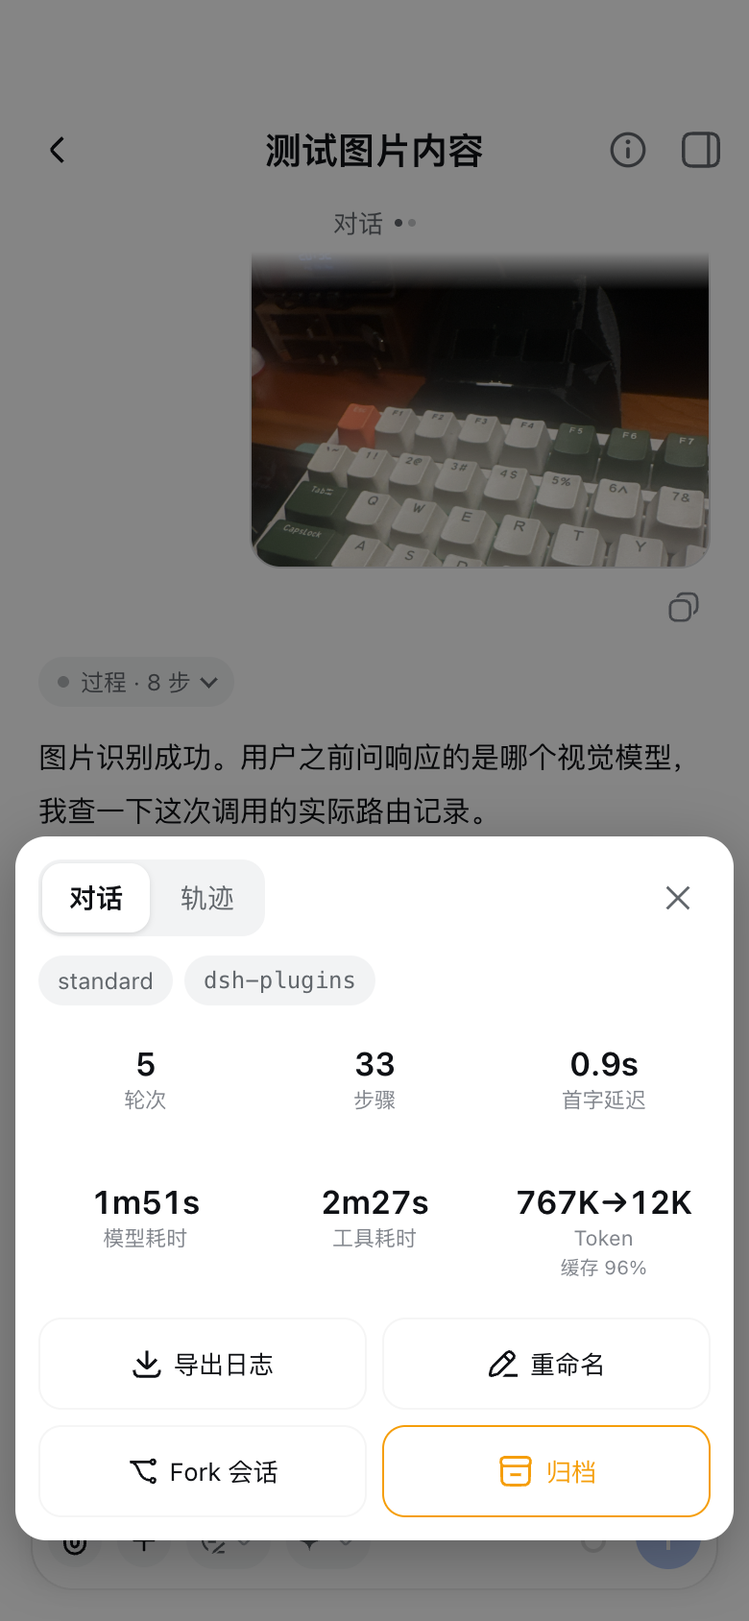
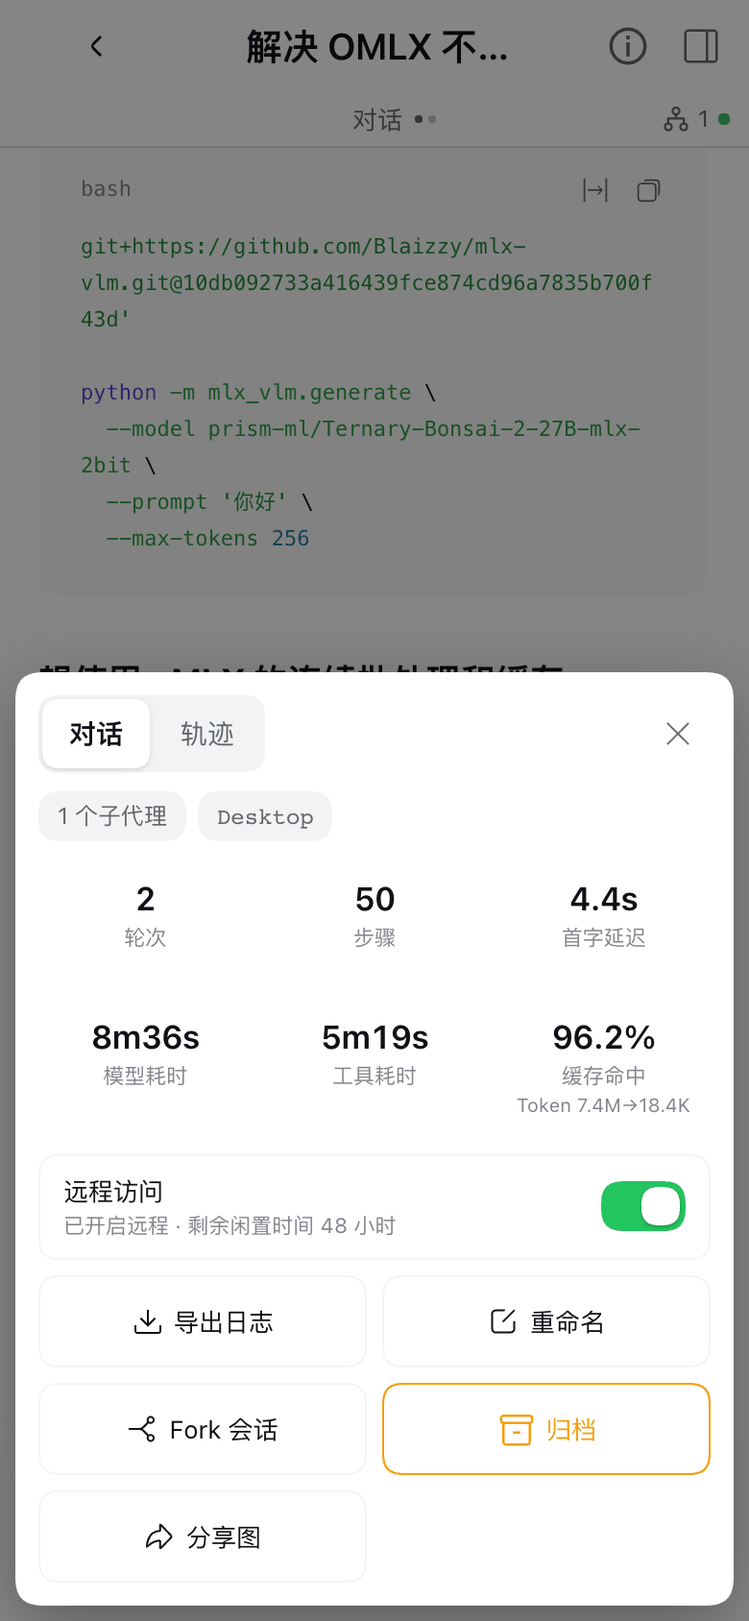
docs: remote connection overview and settings walkthrough with screenshots; refresh phone screenshots; fix stale wording; keep dev docs and screenshots out of the npm package

diff --git a/README.md b/README.md
@@ -35,6 +35,35 @@ A paired **desktop client** sees exactly the sessions the host has turned remote
 
 ---
 
+## Remote connection
+
+**What it is for**: one always-on computer runs the sessions (the host), and the DSH desktop app on another computer (the client) watches and carries on with them remotely — history, live progress, messages, approvals, the terminal all work, and everything executes on the host. Phones and tablets take a different road: a browser reaching the host through the gateway (a web app device), see [Setting up public access](#setting-up-public-access-host).
+
+**How it works**, in four steps:
+
+1. **Pair**: on the host's settings page, generate a 桌面应用端 (desktop app device) pairing code; on the client's settings page, enter the server address and the code. Step by step in the [settings page walkthrough](#settings-page-walkthrough) below.
+2. **Turn remote access on**: remote access is per session. On the host, pick 开启远程 (turn remote on) from the session's "…" menu (or use the globe icon in the title row, or the list in the settings page — see [Session sharing](#session-sharing)).
+
+   ![The host turning remote access on from a session's "…" menu](docs/images/host-share-menu.png)
+
+3. **Use it on the client**: after the local workspaces, the sidebar shows a "host device name · workspace name" group; sessions in it open like local ones, and the globe icon in the title row shows the connection state (online / offline / version differs). A host workspace with no remote-enabled session never shows up.
+
+   ![The client sidebar with the "书房 · Desktop" group and the remote status icon in the title row](docs/images/client-sidebar.png)
+
+4. **Closing and coming back**: when the host closes remote access, the session idle-sleeps (48 hours without activity by default), or you close it from the client, an open session page shows a "remote closed" banner with input disabled, and the session hides from the list once you switch away; turning remote access back on brings it back. During a disconnect the page holds still and resumes by itself once the link is back.
+
+   ![The "remote closed" banner above the composer after remote access was closed](docs/images/client-remote-closed.png)
+
+**Toggle it from your phone too**: when a phone (web app device) opens a session on the host, the session info card has a 远程访问 (remote access) row showing whether it is on and the idle time left; the switch turns it on or off.
+
+<p align="center"><img src="docs/images/mobile-info-remote.png" alt="The remote access switch in the phone's session info card" width="320"></p>
+
+What it can and cannot do: see [Features](#features) and [Known limitations](#known-limitations). A paired desktop client is treated as a trusted device — the trust boundary is in [Security model](#security-model).
+
+> In these screenshots the red frames mark what this plugin adds to the DSH interface; session titles are demo names and conversation content is blurred. The UI is shown in Chinese.
+
+---
+
 ## Install
 
 ```sh
@@ -68,7 +97,7 @@ Copy [`cordis.patch.yml.example`](cordis.patch.yml.example) into your profile's 
 
 </details>
 
-To uninstall: `dsh plugin remove dsh-zen-remote` (or delete the line from the profile's `dependencies` / `bundles`) and restart. To also wipe pairing and share state, delete `~/.dsh/lan-gate-state.json`, `~/.dsh/lan-gate.config.json` and `~/.dsh/zen-remote-shares.json`.
+To uninstall: `dsh plugin remove dsh-zen-remote` (or delete the line from the profile's `dependencies` / `bundles`) and restart. To also wipe pairing and share state, delete `~/.dsh/lan-gate-state.json`, `~/.dsh/lan-gate.config.json`, `~/.dsh/zen-remote-shares.json` and `~/.dsh/zen-remote-server.json` (the server id — once it is gone, paired clients see a brand-new server).
 
 ---
 
@@ -120,11 +149,12 @@ The server-side settings page can rename devices, change a device's role (`set-r
 
 ## Session sharing
 
-Remote access is per session, with three toggle entries on the host:
+Remote access is per session, with four toggle entries:
 
-1. the session's context-menu item in the sidebar;
+1. 开启远程 / 关闭远程 (remote on / off) in the sidebar session row's "…" menu;
 2. the remote icon in the session title row (click to toggle, with a confirmation; hover shows the remaining idle time; a dot on the icon means a desktop client is watching right now);
-3. the shared-sessions list in the plugin settings page, including a close-all.
+3. the shared-sessions list in the plugin settings page, including a close-all;
+4. the 远程访问 (remote access) switch in the phone's (web app device's) session info card.
 
 **Idle sleep**: a remote-enabled session closes its remote access by itself after **48 hours** (configurable, `idleHours`) with no session activity — turns starting or ending, messages, approvals or question answers, from either the server or a client. Sessions that are mid-turn or waiting on an approval/question are never swept, and merely having a viewer open does not keep one awake. The remaining time is hoverable on the title-row icon and listed in the settings page.
 
@@ -139,6 +169,42 @@ Remote access is per session, with three toggle entries on the host:
 ---
 
 ## Configuration
+
+### Settings page walkthrough
+
+**Where it is**: in DSH, click 插件 (Plugins) in the left bar → click dsh-zen-remote in the plugin list → click dsh-zen-remote once more under 包含的组件 (components); the settings block is below.
+
+**Common controls**: 已覆盖 (overridden) at a field's top right means the value is saved in the plugin settings (overriding the config file or the default); 重置 (reset) falls back to the next layer. Click 保存 (save) at the bottom of the card when done. Fields that need a reload say so, and the plugin reloads itself after saving — no app restart.
+
+**Host**
+
+1. Set 运行角色 (role) to 主服务端 (host) and give it a recognizable 设备名称 (device name), e.g. "书房" (study) — it titles the group in clients' sidebars and shows on the phone. Save.
+
+   ![Host settings: role and device name in the role card](docs/images/host-settings-role.png)
+
+2. 网关与反代 (gateway and reverse proxy): keep the defaults for local use and phone access through a proxy; for public access see [Setting up public access](#setting-up-public-access-host). For clients on the LAN to reach the gateway **directly**, set 监听地址 (listen address) to `0.0.0.0` (it must include loopback — the settings page manages the gateway over loopback).
+3. 配对 (pairing): choose Web 应用端 (phones, browsers) or 桌面应用端 (another DSH desktop app), click 生成配对码 (generate code) and enter it on the other device within 10 minutes. The 设备 (devices) list renames devices, changes their role and revokes them.
+
+   ![Generating a pairing code, and the device list](docs/images/host-pairing.png)
+
+4. 远程共享 (remote sharing): the idle-sleep window and whether new sessions are shared automatically. Below the card, 已开启远程的会话 (remote-enabled sessions) lists what is shared right now, the idle time left and whether a device is watching; close them one by one or all at once.
+
+   ![The remote-enabled sessions list](docs/images/host-settings-shares.png)
+
+5. 推送 (push): push summaries, turn-end pushes and so on, as you like — see [When notifications fire](#when-notifications-fire).
+
+**Client**
+
+1. Set 运行角色 (role) to 子客户端 (client) and save — the plugin reloads and the page switches to the client's settings.
+2. Give this computer a 设备名称 (device name), e.g. "客厅" (living room); it is registered in the host's device list when pairing. Save.
+3. 连接服务端 (connect to server): enter the host's gateway address (on a LAN e.g. `http://192.168.1.10:3088`; public addresses must be `https://`) and a 桌面应用端 pairing code from the host, then click 配对 (pair).
+4. Done when 连接状态 (connection state) reads 已连接到「host name」 (connected to "host name"); the host's groups appear in the sidebar right away. The 诊断 (diagnostics) area lists the request interceptor state and recent remote-call failures — the first place to look when something is off.
+
+   ![Client settings: role, device name, server connection and connection state](docs/images/client-settings.png)
+
+> Addresses and pairing codes in the screenshots are demo values.
+
+### Field reference
 
 Everything is edited in the DSH Plugins page → dsh-zen-remote settings block. Per field the first legal value wins in this order: **environment variable > plugin row settings > `~/.dsh/lan-gate.config.json` > default**. A value that fails its field's check (type, range, enum) makes that layer transparent. Saving a field that needs a gateway/push restart (`role`, `port`, `host`, `targetPort`, `rateLimit`, `trustedProxies`, `vapidSubject`, `lang`, and the push fields) reloads the plugin row automatically — no app restart required; everything else takes effect immediately.
 
@@ -206,14 +272,14 @@ The `push_notify` tool. The model should call it when you explicitly asked to be
 - Two-level page stack — session list home plus a standalone session page, pushed in and out horizontally
 - Plugin entry chips on the home screen, appearing automatically for what you have installed, individually hideable
 - Reworked composer: controls become icons, the permission and model menus become bottom sheets
-- Session info card: six stats plus export log / rename / fork / archive; share-image export as ONE long PNG
+- Session info card: six stats plus export log / rename / fork / archive; share-image export as ONE long PNG; since 2.0 a remote access switch row
 - Turn-process folding, left-edge swipe back, Android back-gesture takeover, phone-local attachment upload
 - A pairing code buys a long-lived device token; identity follows the token, not the IP, revocable at any time
 - Real PWA + real Web Push (VAPID + aes128gcm), firing only for approvals and questions by default
 
 **Host (2.0 additions)**
 
-- Session sharing with three toggle entries, idle sleep, auto-share and subagent/fork following
+- Session sharing with four toggle entries (including the phone info card), idle sleep, auto-share and subagent/fork following
 - Everything above works when DSH runs as the **desktop app**: the gateway forwards to the desktop backend's real port automatically, and approval/question pushes fire for desktop sessions
 
 **Desktop client (2.0 additions)**
@@ -245,7 +311,7 @@ What a paired device is trusted with, stated plainly:
 
 - **A paired desktop client is a trusted device.** The remote session's terminal is a shell running as the **server's user**, without the agent sandbox or approval restrictions. The file-preview interfaces (`workspaceFiles/read` and friends) are **not** contained to the session directory — anything the server process can read is readable. A paired client can create sessions in **any** of the server's workspaces (not limited to remote-enabled ones; the created session is auto-shared).
 - **"Only remote-enabled sessions are visible" constrains session data**: an unshared session's list, history, live progress and approval/question events are refused or filtered by the relay; @-mention candidates list **only shared sessions**; and a `dsh-session:` reference embedded in a message, a queue edit or a slash command refuses the whole call when it names a session without remote access. It is not a sandbox around the machine.
-- **Admin actions stay local**: generating pairing codes, changing roles and revoking devices only work from the settings page on the server machine itself — requests that arrived through the gateway can view status but are refused for every mutation, and desktop clients cannot reach the admin routes at all.
+- **Admin actions stay local**: generating pairing codes, changing roles and revoking devices only work from the settings page on the server machine itself — requests that arrived through the gateway can view status but mutations are refused — the one exception is toggling a session's remote access, which a web app device (a phone) may do, and that is what the phone info card's remote access switch uses; desktop clients cannot reach the admin routes at all.
 
 ---
 

diff --git a/README.zh-CN.md b/README.zh-CN.md
@@ -35,6 +35,35 @@
 
 ---
 
+## 远程连接
+
+**适合什么场景**：一台电脑常开、跑会话（主服务端），另一台电脑的 DSH 桌面端（子客户端）远程查看、接着干活——历史、实时进度、发消息、审批、终端都能用，所有执行都发生在主服务端。手机、平板走的是另一条路：浏览器经网关访问主服务端（Web 应用端），见[配置公网访问](#配置公网访问主服务端)。
+
+**怎么用**，四步：
+
+1. **配对**：主服务端设置页生成「桌面应用端」配对码，子客户端设置页填服务端地址和配对码。逐步说明见下面的[设置页配置引导](#设置页配置引导)。
+2. **开启远程**：远程按会话逐个开。主服务端在会话的「…」菜单里点「开启远程」（也可以用标题行的地球图标、设置页的共享列表，见[会话共享](#会话共享)）。
+
+   ![主服务端在会话的「…」菜单里开启远程](docs/images/host-share-menu.png)
+
+3. **在子客户端使用**：侧边栏本地工作区后面出现「服务端设备名称 · 工作区名」分组，点开就像本地会话一样用；标题行的地球图标显示连接状态（在线 / 离线 / 版本有差异）。服务端上没有开启远程会话的工作区不会出现。
+
+   ![子客户端侧边栏里的「书房 · Desktop」分组，标题行是远程连接状态图标](docs/images/client-sidebar.png)
+
+4. **关闭与恢复**：服务端关闭远程、会话闲置休眠（默认 48 小时无动静）、或在子客户端自己关闭时，正打开的会话页会显示「远程已关闭」横幅并禁用输入，切到别的会话后它从列表里隐藏；重新开启远程后自动回来。断线期间页面保持原样，连上后自动续上。
+
+   ![远程被关闭后，会话页输入框上方的「远程已关闭」横幅](docs/images/client-remote-closed.png)
+
+**手机上也能开关**：用手机（Web 应用端）访问主服务端时，会话页的信息卡片里有一行「远程访问」，显示是否已开启、剩余闲置时间，点开关即可开启或关闭。
+
+<p align="center"><img src="docs/images/mobile-info-remote.png" alt="手机会话信息卡片里的「远程访问」开关" width="320"></p>
+
+能做什么、不能做什么，见[功能](#功能)和[已知限制](#已知限制)；已配对的桌面应用端被视为可信设备，信任边界见[安全模型](#安全模型)。
+
+> 以上截图中，红框圈出的是本插件加入 DSH 界面的部分；会话标题为演示用，对话内容已模糊处理。
+
+---
+
 ## 安装
 
 ```sh
@@ -68,7 +97,7 @@ cd ~/.dsh/profiles/desktop && pnpm install
 
 </details>
 
-卸载：`dsh plugin remove dsh-zen-remote`（或从 profile 的 `dependencies` / `bundles` 里删掉那一行）后重启；要清掉配对与共享状态再删 `~/.dsh/lan-gate-state.json`、`~/.dsh/lan-gate.config.json` 与 `~/.dsh/zen-remote-shares.json`。
+卸载：`dsh plugin remove dsh-zen-remote`（或从 profile 的 `dependencies` / `bundles` 里删掉那一行）后重启；要清掉配对与共享状态再删 `~/.dsh/lan-gate-state.json`、`~/.dsh/lan-gate.config.json`、`~/.dsh/zen-remote-shares.json` 与 `~/.dsh/zen-remote-server.json`（服务端 id；删了之后已配对的子客户端会把它当成一台新服务端）。
 
 ---
 
@@ -120,11 +149,12 @@ cd ~/.dsh/profiles/desktop && pnpm install
 
 ## 会话共享
 
-远程按会话逐个开启，服务端有三个入口：
+远程按会话逐个开启，有四个入口：
 
-1. 侧边栏会话的右键菜单项；
+1. 侧边栏会话行的「…」菜单里的「开启远程 / 关闭远程」；
 2. 会话页标题行的远程图标（点击开关、带二次确认；悬停显示剩余闲置时间；图标带小圆点表示此刻有桌面应用端在看）；
-3. 插件设置区块的共享列表，含一键全部关闭。
+3. 插件设置区块的「已开启远程的会话」列表，含一键全部关闭；
+4. 手机（Web 应用端）会话页信息卡片里的「远程访问」开关。
 
 **闲置休眠**：开启远程的会话在 **48 小时**（可配，`idleHours`）内没有任何会话动静——回合开始或结束、发消息、审批或提问得到回答，不分服务端还是子客户端——就自动关闭远程。运行中的回合、等待审批/回答的会话永远不会被扫掉；只开窗口「看着」不算活跃。剩余时间悬停标题行图标可见，设置区块里逐条列出。
 
@@ -139,6 +169,42 @@ cd ~/.dsh/profiles/desktop && pnpm install
 ---
 
 ## 配置
+
+### 设置页配置引导
+
+**在哪打开**：DSH 左侧点「插件」→ 插件列表里点 dsh-zen-remote → 在「包含的组件」里再点一次 dsh-zen-remote，下面就是设置区块。
+
+**通用操作**：字段右上角出现「已覆盖」表示这个值保存在插件设置里（覆盖了配置文件或默认值），点「重置」恢复成下一层的值；改完点卡片底部的「保存」。需要重载的字段会有提示，保存后插件自己重载，不用重启 App。
+
+**主服务端**
+
+1. 「运行角色」选「主服务端」，「设备名称」填一个好认的名字（比如「书房」）——子客户端侧边栏的分组标题、手机上都显示它。保存。
+
+   ![主服务端设置页：角色卡片里的运行角色与设备名称](docs/images/host-settings-role.png)
+
+2. 「网关与反代」：只在本机和手机经反代访问时保持默认即可，公网访问见[配置公网访问](#配置公网访问主服务端)。要让局域网里的子客户端**直连**网关，把「监听地址」改成 `0.0.0.0`（必须包含本机回环，设置页靠回环地址管理网关）。
+3. 「配对」：选「Web 应用端」（手机、浏览器）或「桌面应用端」（另一台 DSH 桌面端），点「生成配对码」，10 分钟内在对方那里输入。「设备」列表里可以改名、改设备角色、吊销。
+
+   ![生成配对码与设备列表](docs/images/host-pairing.png)
+
+4. 「远程共享」：闲置休眠时长、是否自动共享新会话。卡片下方的「已开启远程的会话」列出当前开着远程的会话、剩余闲置时间、是否有设备正在查看，可以逐个或全部关闭。
+
+   ![已开启远程的会话列表](docs/images/host-settings-shares.png)
+
+5. 「推送」：推送内容摘要、回合结束推送等，按需开启，说明见[通知什么时候会响](#通知什么时候会响)。
+
+**子客户端**
+
+1. 「运行角色」选「子客户端」，保存——插件自动重载，设置页换成子客户端的内容。
+2. 「设备名称」填这台电脑的名字（比如「客厅」），配对时它会登记到服务端的设备列表里。保存。
+3. 「连接服务端」：填服务端的网关地址（局域网例如 `http://192.168.1.10:3088`，公网必须 `https://`）和服务端生成的「桌面应用端」配对码，点「配对」。
+4. 「连接状态」显示「已连接到『服务端设备名称』」就完成了，侧边栏随即出现服务端的分组。「诊断」区列出请求拦截器状态和最近的远程调用失败，排障先看这里。
+
+   ![子客户端设置页：角色、设备名称、连接服务端与连接状态](docs/images/client-settings.png)
+
+> 截图中的地址、配对码为演示值。
+
+### 字段参考
 
 全部在 DSH「插件」页 → dsh-zen-remote 设置区块里改。每个字段按此顺序取第一个合法值：**环境变量 > 插件行设置 > `~/.dsh/lan-gate.config.json` > 默认值**；某层的值类型/范围/枚举不合法时该层视为未设置。改完需要重启网关/推送的字段（`role`、`port`、`host`、`targetPort`、`rateLimit`、`trustedProxies`、`vapidSubject`、`lang` 与推送各字段），插件会自己重载插件行——不用手动重启 App；其余字段立即生效。
 
@@ -206,14 +272,14 @@ cd ~/.dsh/profiles/desktop && pnpm install
 - 会话列表主屏 + 独立会话页两级页面栈，横向推入推出
 - 主屏插件入口 chips，按已装插件自动出现，显隐可自定义
 - composer 重排：控件图标化，权限/模型菜单变成底部 sheet
-- 会话信息卡：六格统计 + 导出日志 / 重命名 / Fork / 归档；分享图一键导出 PNG 长图
+- 会话信息卡：六格统计 + 导出日志 / 重命名 / Fork / 归档；分享图一键导出 PNG 长图；2.0 起多一行「远程访问」开关
 - 回合过程折叠、左缘右滑返回、安卓返回手势接管、手机本地附件上传
 - 配对码换长期设备令牌，认令牌不认 IP，可随时吊销
 - 真 PWA + 真 Web Push（VAPID + aes128gcm），默认只在等授权/等回答时响
 
 **主服务端（2.0 新增）**
 
-- 会话共享：三个开关入口、闲置休眠、新建自动共享、子会话跟随
+- 会话共享：四个开关入口（含手机信息卡片）、闲置休眠、新建自动共享、子会话跟随
 - 以上全部在 DSH 跑**桌面端 App** 时同样成立：网关自动转发到桌面端后台的实际端口，桌面端会话的等授权/等回答照推手机
 
 **桌面应用端（2.0 新增）**
@@ -245,7 +311,7 @@ cd ~/.dsh/profiles/desktop && pnpm install
 
 - **已配对的桌面应用端被视为可信设备。** 远程会话里的终端是以**服务端用户**身份运行的 shell，不受智能体沙箱与审批限制。文件预览接口（`workspaceFiles/read` 等）**不**限制在会话目录内——服务端进程读得到的文件都读得到。已配对设备可以在服务端**任意**工作区新建会话（不受「开启远程」限制；新建的会话自动开启远程）。
 - **「只有开启远程的会话可见」约束的是会话数据**：未开启远程的会话，其列表、历史、实时进度、审批/提问事件都被中继拒绝或过滤；@ 引用候选**只列已共享会话**；发消息、改写排队消息、斜杠命令里内嵌的 `dsh-session:` 会话引用一旦指向未开启远程的会话，整个调用被服务端拒绝。它不是围住整台机器的沙箱。
-- **管理操作只在服务端本机**：生成配对码、改角色、吊销只能在跑服务端那台机器的设置页做——经网关进来的请求可以查看状态，但一切变更动作被拒；桌面应用端根本够不到管理路由。
+- **管理操作只在服务端本机**：生成配对码、改角色、吊销只能在跑服务端那台机器的设置页做——经网关进来的请求可以查看状态，但变更动作被拒——唯一例外是开关会话的远程：Web 应用端（手机）可以开关，手机信息卡片里的「远程访问」开关就走这条；桌面应用端根本够不到管理路由。
 
 ---
 

diff --git a/docs/remote-access.en.md b/docs/remote-access.en.md
@@ -270,7 +270,7 @@ Since 2.0.0 the gateway and the push half **no longer take one row each**: the p
 
 ## Admin API
 
-All of the following endpoints are **local-direct-connection only**: the request's socket must be a loopback address, carry no `X-Forwarded-*` headers at all, and name a loopback host (see Architecture). On top of that judgment sit two more gates aimed at browsers (a cross-site POST from a web page needs no preflight, so the socket/Host judgment alone cannot stop one): any request carrying an `Origin` header gets 403, and any request with a body whose `Content-Type` is not `application/json` gets 415 — the plugin backend's proxied calls and a scripted `curl` (JSON header, no Origin) are unaffected. Anything that came through the proxy (which always carries forwarded headers) gets 403 — the public internet can never reach these. Since 2.0.0 the caller is the plugin backend, not a browser admin page: requests from the settings page arrive on the same-origin routes `/_dsh/zen-remote/admin/*` and the host process calls the gateway below **as** the local machine (forwarded requests wearing the `x-zen-remote-via` marker may read status but are refused for every mutation).
+All of the following endpoints are **local-direct-connection only**: the request's socket must be a loopback address, carry no `X-Forwarded-*` headers at all, and name a loopback host (see Architecture). On top of that judgment sit two more gates aimed at browsers (a cross-site POST from a web page needs no preflight, so the socket/Host judgment alone cannot stop one): any request carrying an `Origin` header gets 403, and any request with a body whose `Content-Type` is not `application/json` gets 415 — the plugin backend's proxied calls and a scripted `curl` (JSON header, no Origin) are unaffected. Anything that came through the proxy (which always carries forwarded headers) gets 403 — the public internet can never reach these. Since 2.0.0 the caller is the plugin backend, not a browser admin page: requests from the settings page arrive on the same-origin routes `/_dsh/zen-remote/admin/*` and the host process calls the gateway below **as** the local machine (forwarded requests wearing the `x-zen-remote-via` marker may read status but mutations are refused — the one exception is toggling a session's remote access on `/_dsh/zen-remote/admin/shares`, which a web app device (a phone) may do; the phone session info card's remote access switch uses it).
 
 | Endpoint | Method | What | Params |
 | --- | --- | --- | --- |
@@ -349,8 +349,8 @@ The `/v1/http` route is a second allowlist, keyed by **route name** (not part of
 - Revocable tokens — lost device, lent-out machine, one click in the settings block and it stops working immediately (open connections, established HTTP relay streams and push subscriptions all die with it).
 - Desktop clients are fenced into the relay prefix — every other path (DSH pages, `/api` included) gets 403.
 - The relay's three gates — device token, gateway marker headers + the per-load shared secret (`LAN_GATE_RELAY_SECRET`, not externally settable), and the per-method allowlist with output filtering; an unshared session's data never leaves the box.
-- Request volume — rate-limited per resolved real client IP, 120/min by default, 429 past that.
-- The admin surface is local-only — generating pairing codes, managing devices, triggering pushes: all local-direct only (loopback socket, no forwarded headers, loopback Host), and anything through the proxy (always carries forwarded headers) gets 403; so do requests carrying an `Origin` header or a non-JSON body (403/415) — DNS rebinding and cross-site simple requests cannot get in; a forwarded request wearing the gateway marker may read but never mutate.
+- Request volume — **unpaired** requests are rate-limited per resolved real client IP, 120/min by default, 429 past that; paired devices are exempt (desktop clients have the relay's own concurrency caps instead).
+- The admin surface is local-only — generating pairing codes, managing devices, triggering pushes: all local-direct only (loopback socket, no forwarded headers, loopback Host), and anything through the proxy (always carries forwarded headers) gets 403; so do requests carrying an `Origin` header or a non-JSON body (403/415) — DNS rebinding and cross-site simple requests cannot get in; a forwarded request wearing the gateway marker may read but not mutate (toggling a session's remote access excepted, see above).
 
 **What's not covered — your responsibility:**
 - A misconfigured reverse proxy — e.g. accidentally exposing `127.0.0.1:3088/lan-gate/admin` on the public domain too, or a wrong `X-Forwarded-Proto` making the gateway misjudge the client's protocol. These are configuration mistakes the gateway can't defend against.

diff --git a/docs/remote-access.md b/docs/remote-access.md
@@ -281,7 +281,7 @@ sudo cloudflared service install      # 通了再装成常驻服务
 
 ## 🔌 管理 API
 
-以下接口全部**仅限本机直连**：请求的 socket 必须是回环地址、且不带任何 `X-Forwarded-*` 头、且 Host 是回环名（见上）。在这道判定之外还有两道针对浏览器的门（网页发出的跨站 POST 不需要预检，光靠 socket/Host 判定挡不住）：请求带 `Origin` 头一律 403，带请求体但 `Content-Type` 不是 `application/json` 一律 415——插件后台的代调用和脚本 `curl`（带 JSON 头、无 Origin）都不受影响。只要请求经过反代（一定带转发头），一律返回 403——公网碰不到这些接口。2.0 起这些接口的调用方从浏览器管理页换成了插件后台：设置页发起的请求走 DSH 同源路由 `/_dsh/zen-remote/admin/*`，由主服务端进程以「本机直连」的身份代调下面这些网关接口（带 `x-zen-remote-via` 标记的转发请求只许查看、一律拒绝变更）。
+以下接口全部**仅限本机直连**：请求的 socket 必须是回环地址、且不带任何 `X-Forwarded-*` 头、且 Host 是回环名（见上）。在这道判定之外还有两道针对浏览器的门（网页发出的跨站 POST 不需要预检，光靠 socket/Host 判定挡不住）：请求带 `Origin` 头一律 403，带请求体但 `Content-Type` 不是 `application/json` 一律 415——插件后台的代调用和脚本 `curl`（带 JSON 头、无 Origin）都不受影响。只要请求经过反代（一定带转发头），一律返回 403——公网碰不到这些接口。2.0 起这些接口的调用方从浏览器管理页换成了插件后台：设置页发起的请求走 DSH 同源路由 `/_dsh/zen-remote/admin/*`，由主服务端进程以「本机直连」的身份代调下面这些网关接口（带 `x-zen-remote-via` 标记的转发请求只许查看、拒绝变更——唯一例外是 `/_dsh/zen-remote/admin/shares` 的开关会话远程：Web 应用端（手机）可以开关，手机会话信息卡片里的「远程访问」开关就走这条）。
 
 | 接口 | 方法 | 作用 | 参数 |
 | --- | --- | --- | --- |
@@ -360,8 +360,8 @@ sudo cloudflared service install      # 通了再装成常驻服务
 - 令牌可以随时吊销——设备丢了、借给别人用完了，设置页点一下就失效，立即生效（连接、HTTP 长流与推送订阅一并销毁）。
 - 桌面应用端被关进中继前缀——它访问其余任何路径（包括 DSH 页面和 `/api`）一律 403。
 - 中继三道门——设备令牌、网关标记头 + 每次加载现生成的共享密钥（`LAN_GATE_RELAY_SECRET`，不可外部指定）、按方法登记的允许清单 + 输出过滤；未共享会话的数据一步都出不来。
-- 请求量——按解析出的真实客户端 IP 限流，默认每分钟 120 次，超了就 429。
-- 管理面只有本机能碰——生成配对码、管理设备、触发推送，这些接口只认本机直连（回环 socket、无转发头、回环 Host），经反代来的请求（一定带转发头）一律 403；带 `Origin` 的请求与带非 JSON 请求体的请求也一样 403/415，DNS 重绑定与跨站简单请求进不来；带网关标记头的请求即使本机直连也拒绝一切变更动作。
+- 请求量——**未配对**的请求按解析出的真实客户端 IP 限流，默认每分钟 120 次，超了就 429；已配对设备不受这条限制（桌面应用端另有中继自己的并发上限）。
+- 管理面只有本机能碰——生成配对码、管理设备、触发推送，这些接口只认本机直连（回环 socket、无转发头、回环 Host），经反代来的请求（一定带转发头）一律 403；带 `Origin` 的请求与带非 JSON 请求体的请求也一样 403/415，DNS 重绑定与跨站简单请求进不来；带网关标记头的请求即使本机直连也拒绝变更动作（开关会话远程除外，见上）。
 
 **没防住什么，需要你自己注意：**
 - 反代配置错了——比如不小心把 `127.0.0.1:3088/lan-gate/admin` 也挂到公网域名下，或者 `X-Forwarded-Proto` 设错导致网关判断错客户端协议，这些是配置问题，网关本身防不住。

diff --git a/docs/interface.md b/docs/interface.md
@@ -26,7 +26,7 @@ v1.0.0（fork 自 [mexiaosqwq/dsh-web-mobile](https://github.com/mexiaosqwq/dsh-
 ### 主服务端：共享部件
 
 - **标题行远程图标**（`conversation.session.header.actions`，order 25，排在官方任务入口之后）：灰色为未开启，亮色为已开启，亮色带小圆点表示此刻有桌面应用端正在查看；悬停显示剩余闲置时间；点击开关当前会话的远程，带二次确认。
-- **右键菜单项**（`sidebar.workspaces.session.menu.item`，order 500，官方归档行之下、分组细线之后）：侧边栏里直接开启 / 关闭该会话的远程。
+- **会话「…」菜单项**（`sidebar.workspaces.session.menu.item`，order 500，官方归档行之下、分组细线之后）：侧边栏会话行的「…」菜单里直接开启 / 关闭该会话的远程。
 - 这两组部件只在 host 角色渲染与轮询，角色判定与设置页同一套两级决策，角色切换回来时自动恢复。
 
 ### 子客户端：远程部件
@@ -46,7 +46,7 @@ v1.0.0（fork 自 [mexiaosqwq/dsh-web-mobile](https://github.com/mexiaosqwq/dsh-
 | 部件 | 槽位 | 出现在哪些角色 |
 | --- | --- | --- |
 | 插件设置区块 | `plugins.row.config` | 两角色（内容按角色不同） |
-| 标题行远程图标 + 右键菜单项 | `conversation.session.header.actions` / `sidebar.workspaces.session.menu.item` | host |
+| 标题行远程图标 + 会话「…」菜单项 | `conversation.session.header.actions` / `sidebar.workspaces.session.menu.item` | host |
 | 标题行连接图标 + composer 横幅 | 同上槽位 / `conversation.input.dock` | client（仅远程会话渲染） |
 | 远程分组（流合并进侧边栏） | `workspace/follow` 全局流的运行时包装 | client |
 
@@ -177,7 +177,7 @@ composer 最左的回形针打开的是**手机本地**的文件选择器（iOS 
 
 - 一个插件、两种角色，界面半边多出两组部件（详见「2.0：远程会话与设置区块」一节）：
   - 插件设置区块：DSH「插件」页里的完整配置与管理界面，主服务端（网关 / 反代 / 配对 / 设备列表 / 推送 / 远程共享）与子客户端（服务端地址 / 连接状态 / 诊断）按角色不同；经网关打开时管理动作只读；
-  - 主服务端共享部件：会话页标题行远程图标（灰 / 亮 / 亮带圆点，悬停剩余闲置时间，点击开关带确认）与侧边栏右键菜单项；
+  - 主服务端共享部件：会话页标题行远程图标（灰 / 亮 / 亮带圆点，悬停剩余闲置时间，点击开关带确认）与侧边栏会话「…」菜单项；手机会话信息卡片里的「远程访问」开关（只在卡片打开期间拉共享表）；
   - 子客户端远程部件：侧边栏远程分组（离线 / 解配 / 吊销 / 版本差异标注、离线禁写）、标题行连接图标、「远程已关闭」composer 横幅；
 - 以上部件全部注册在桌面端门（`dshDesktop`）之外——桌面端 App 正是主服务端/子客户端的宿主，门的语义是「手机外壳不生效」，不是「远程部件不生效」。
 
